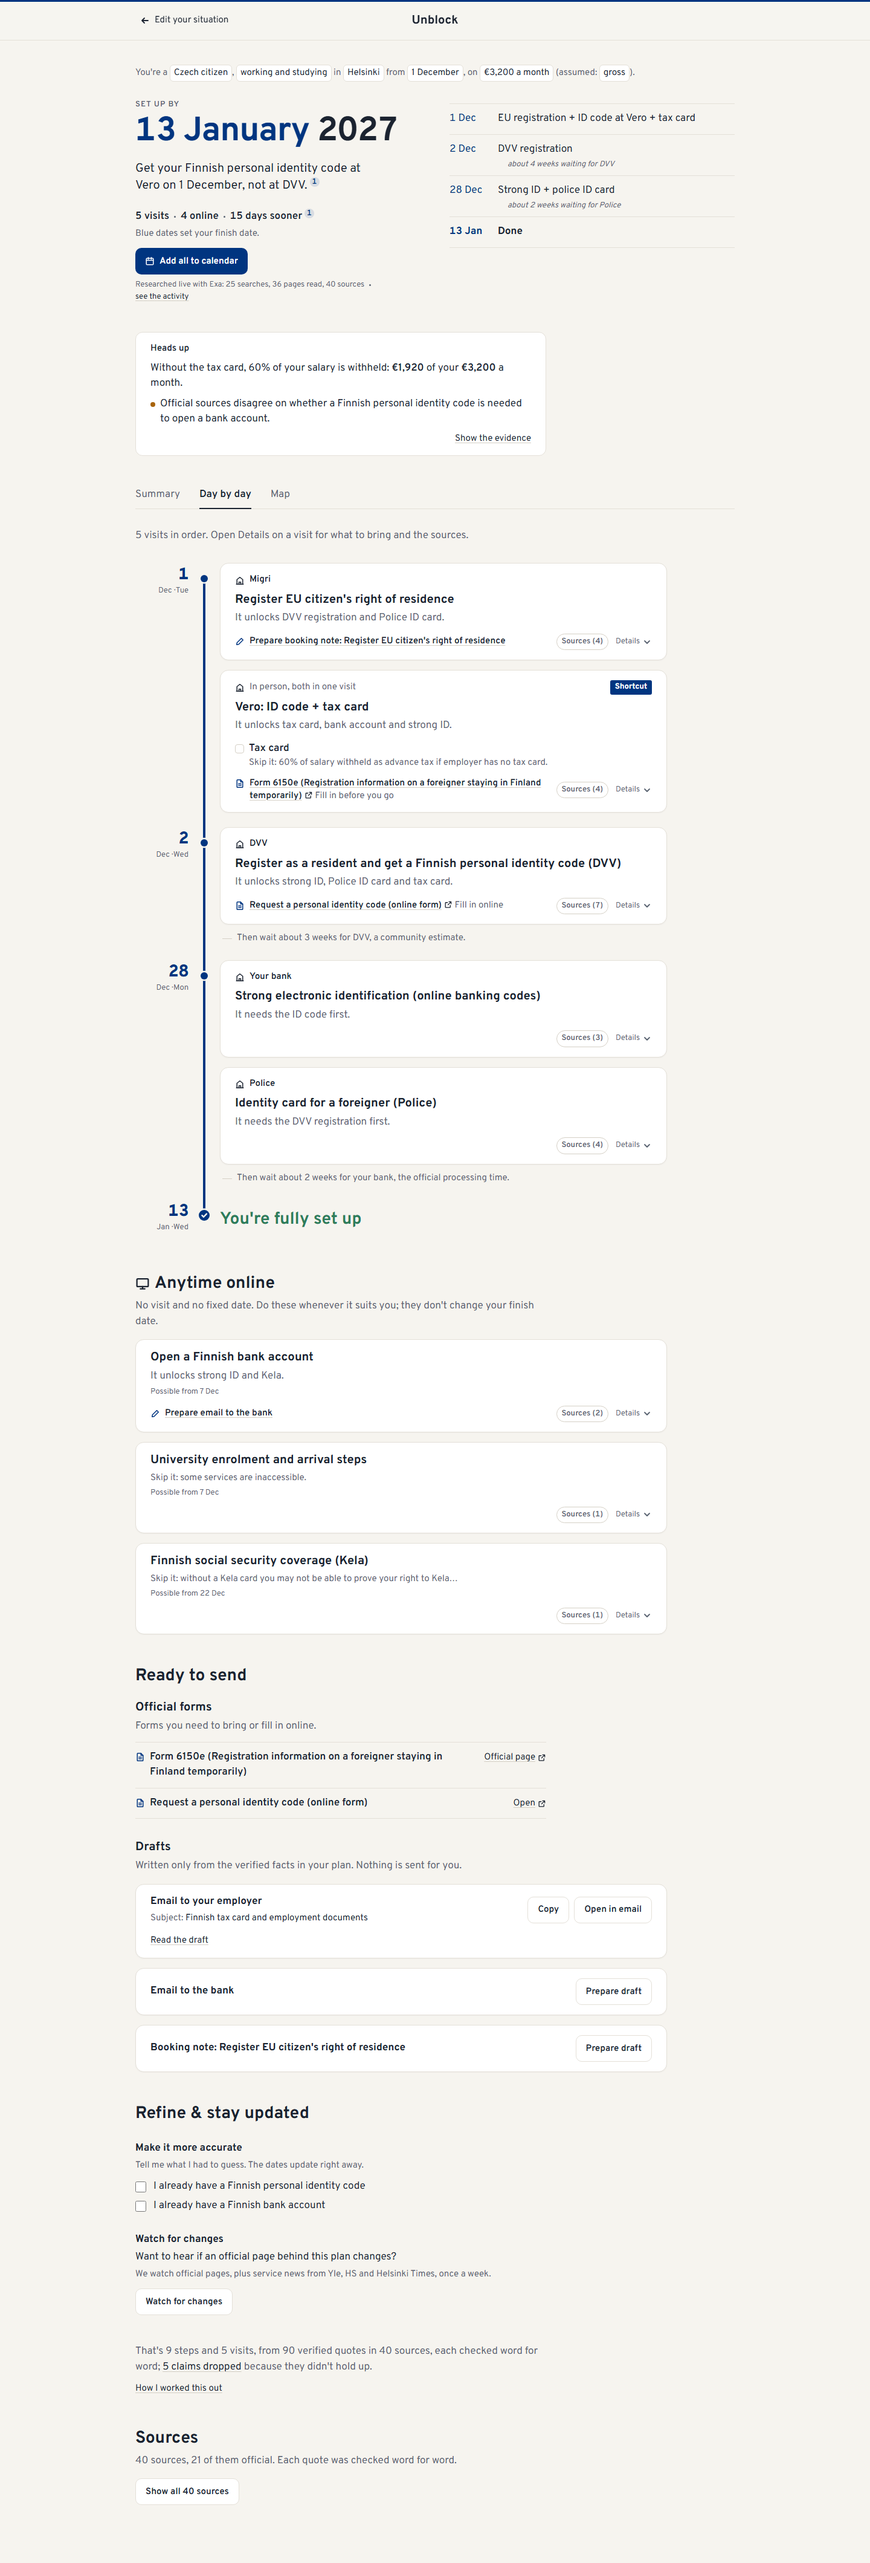
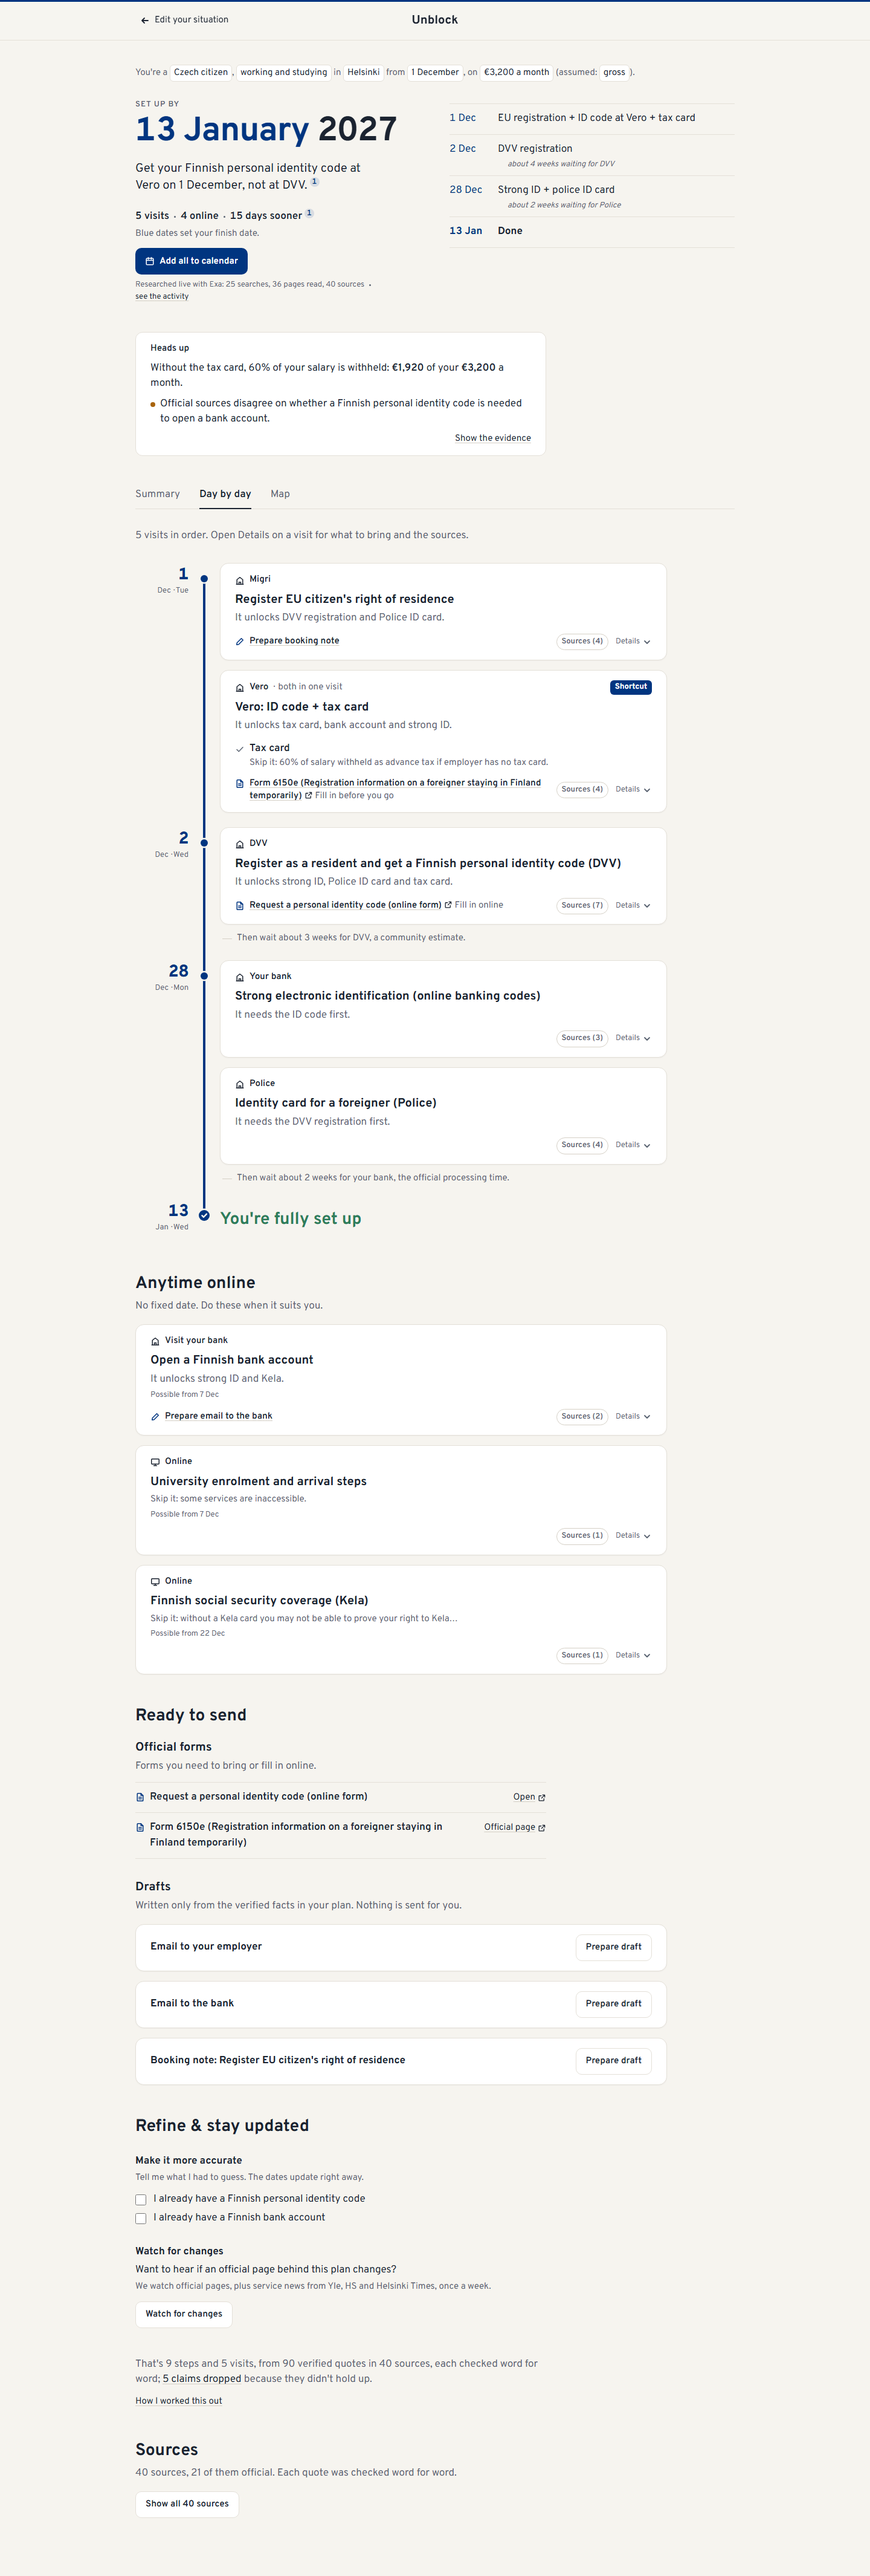
MORNING.md: last small fixes

diff --git a/MORNING.md b/MORNING.md
@@ -17,8 +17,15 @@ Marta (clean `?demo=marta`): Vero shortcut, 5 visits, 15 days sooner (guarded by
 - **4782b1c** Activity panel: no second "How I worked this out" heading or second Hide under the link that opens it.
 - **a65f0a4** Forms: an extracted name that is a sentence fragment (India showed "your application the") is shown as "Official form" (+ test).
 
+## Last small fixes (after the polish; each test + build green)
+- **0e97049** Merged card label "Vero · both in one visit", tax card with a check icon; draft links "Prepare booking note" / "Booking note ready" (never "Draft ready: <type>: <title>"); Bring lists without near-duplicates (`lib/ui/bring.ts`, Marta's Vero list had the passport and the income estimate twice) and no repeated draft link in Details; "Anytime online": "No fixed date. Do these when it suits you." with "Visit your bank" or "Online" per card; dates "Dec · Tue".
+- **0dd3be1** Demo mode (`?demo=`): profile values are plain text, no "Edit your situation"; "Saved demo · Plan your own move →" loads the empty landing page.
+- **99e6637** "Watch this plan" button; the Exa line no longer ends a line with a lone "•".
+- "Visit your bank": the bank step is "either" (online or in person) in the sources; the UI says "Visit your bank" for bank steps that are not online-only, "Online" for the rest.
+
 ## Checks done (step 9)
 - All demos (marta, brazil, india, vietnam) render at 1440x900 and 390x844 with no horizontal scroll and no element wider than the viewport (automated check in headless Chrome).
+- Rechecked after the last fixes: all four demos render at 1440 and 390, no horizontal scroll.
 - Marta (clean `?demo=marta`): "Get your Finnish personal identity code at Vero on 1 December", 5 visits, 15 days sooner.
 - Empty state, Map tab and activity panel reviewed at 1440; no stray borders or second link styles left.
 
